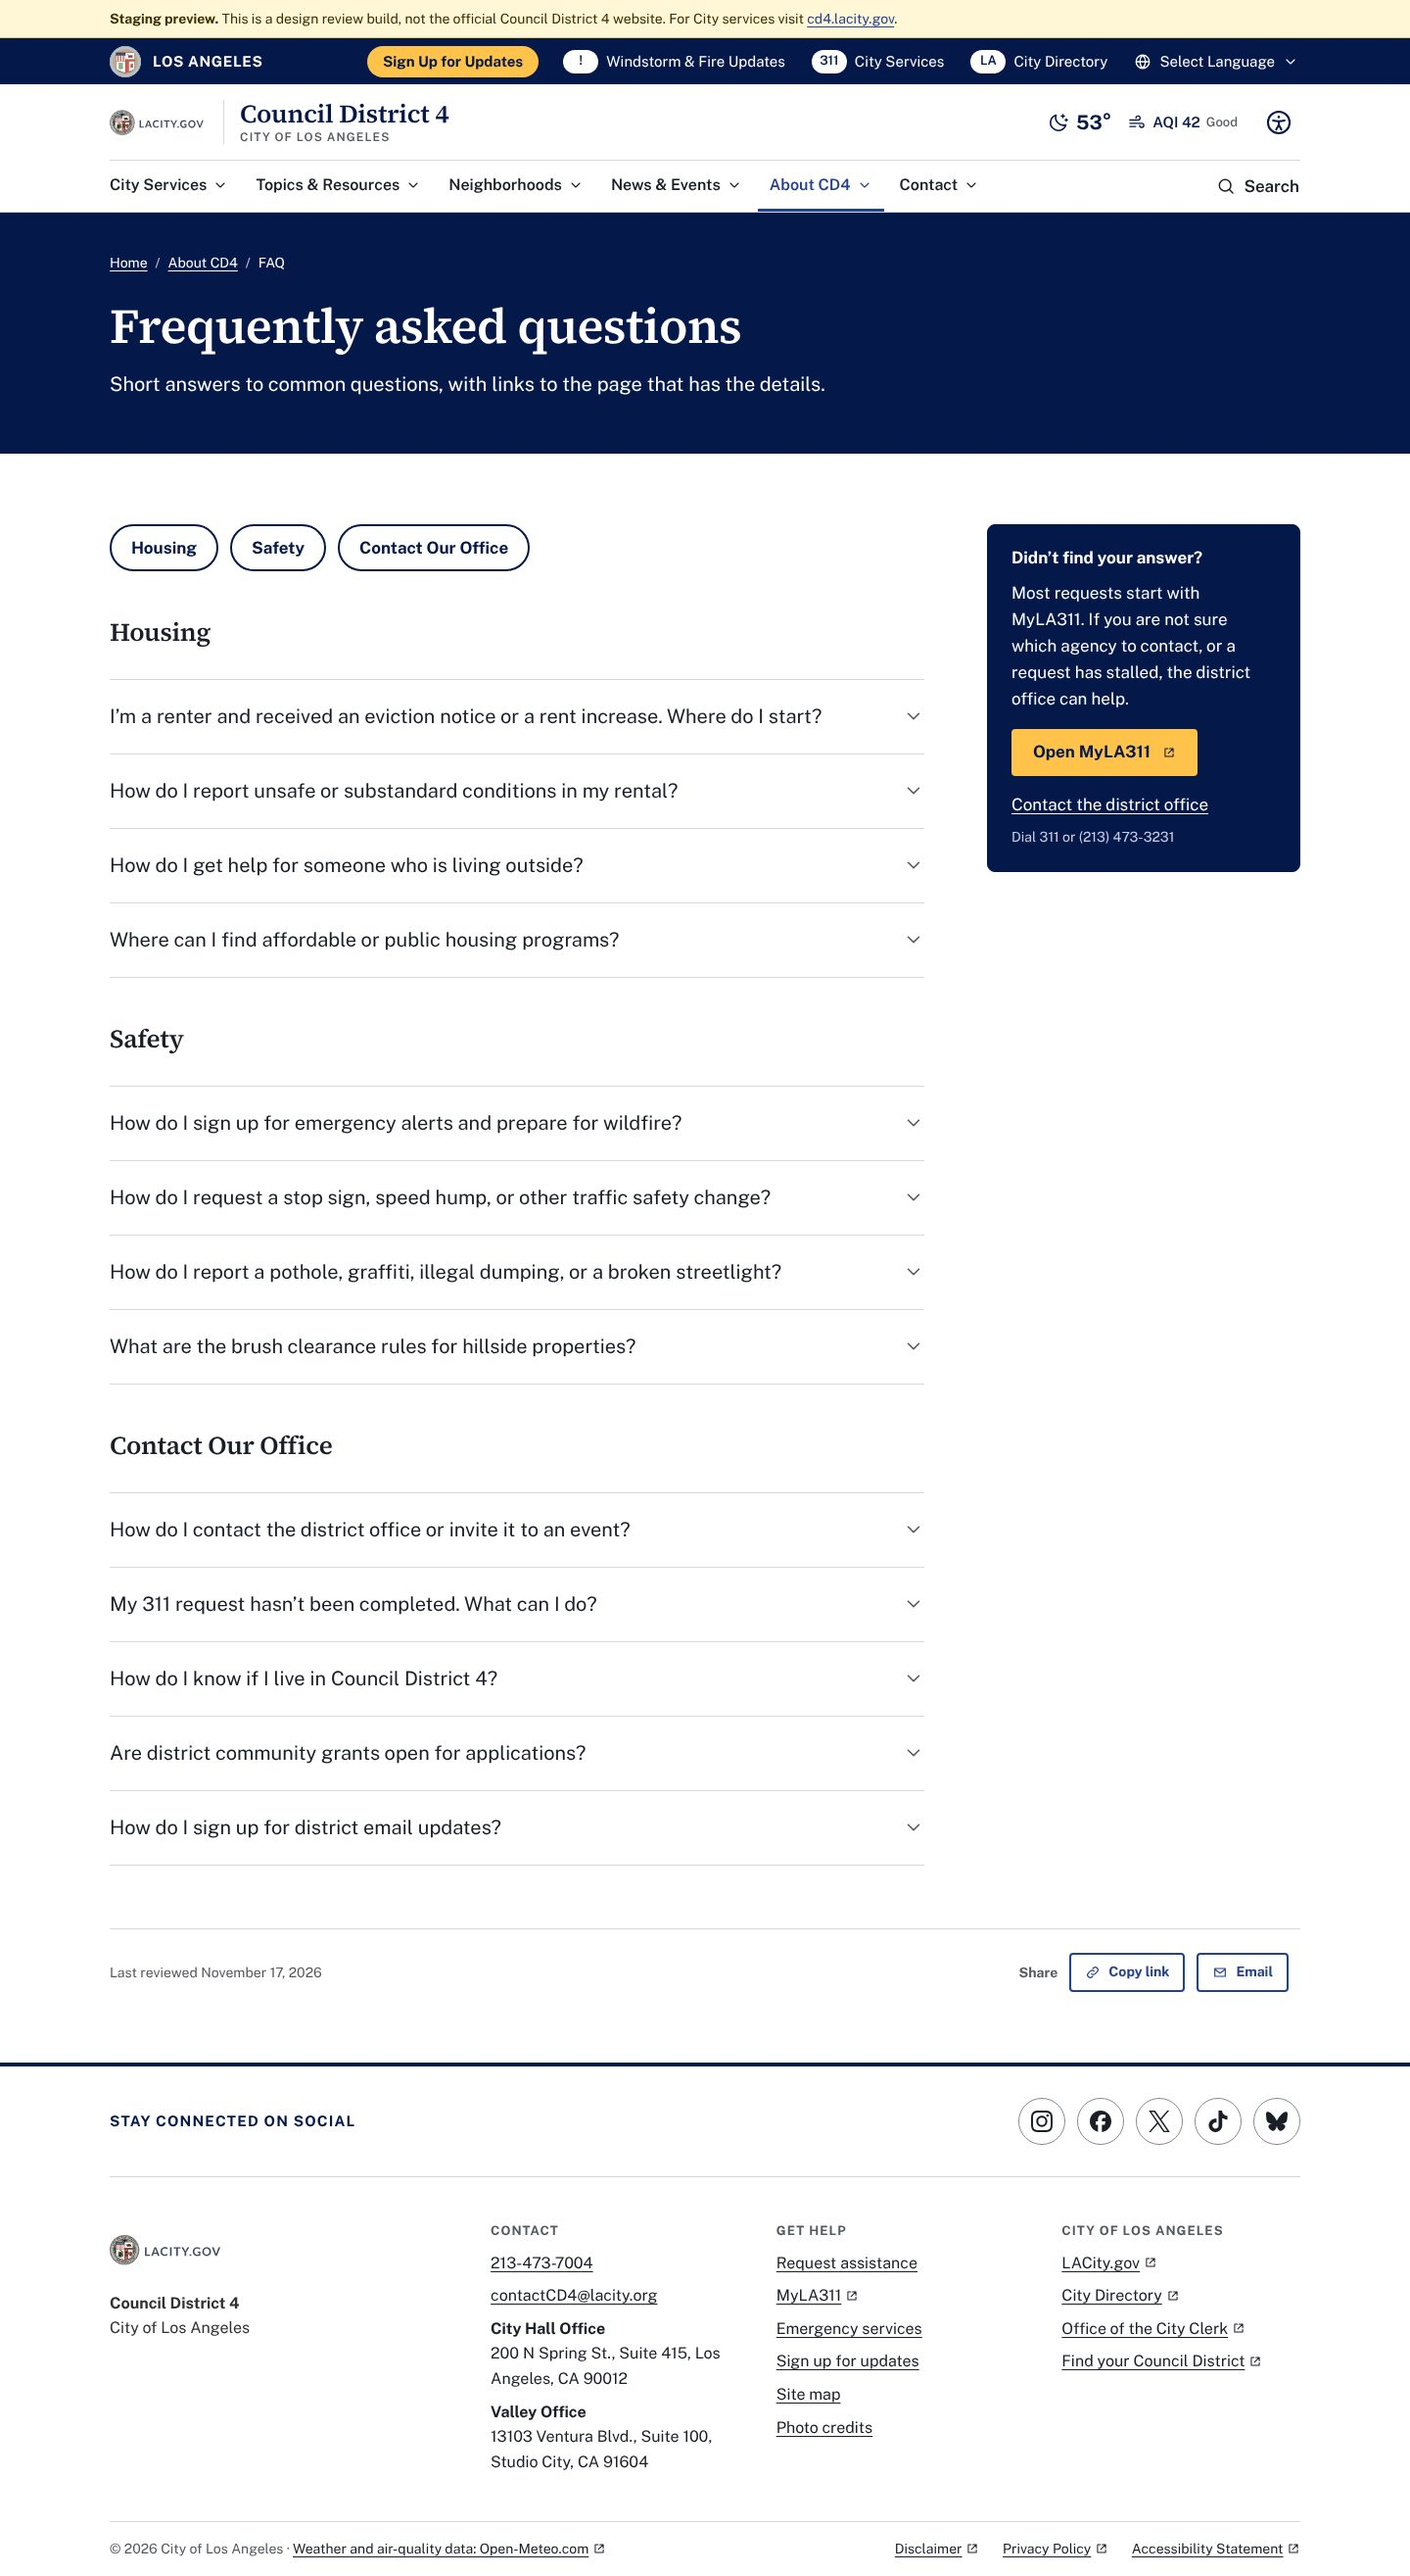
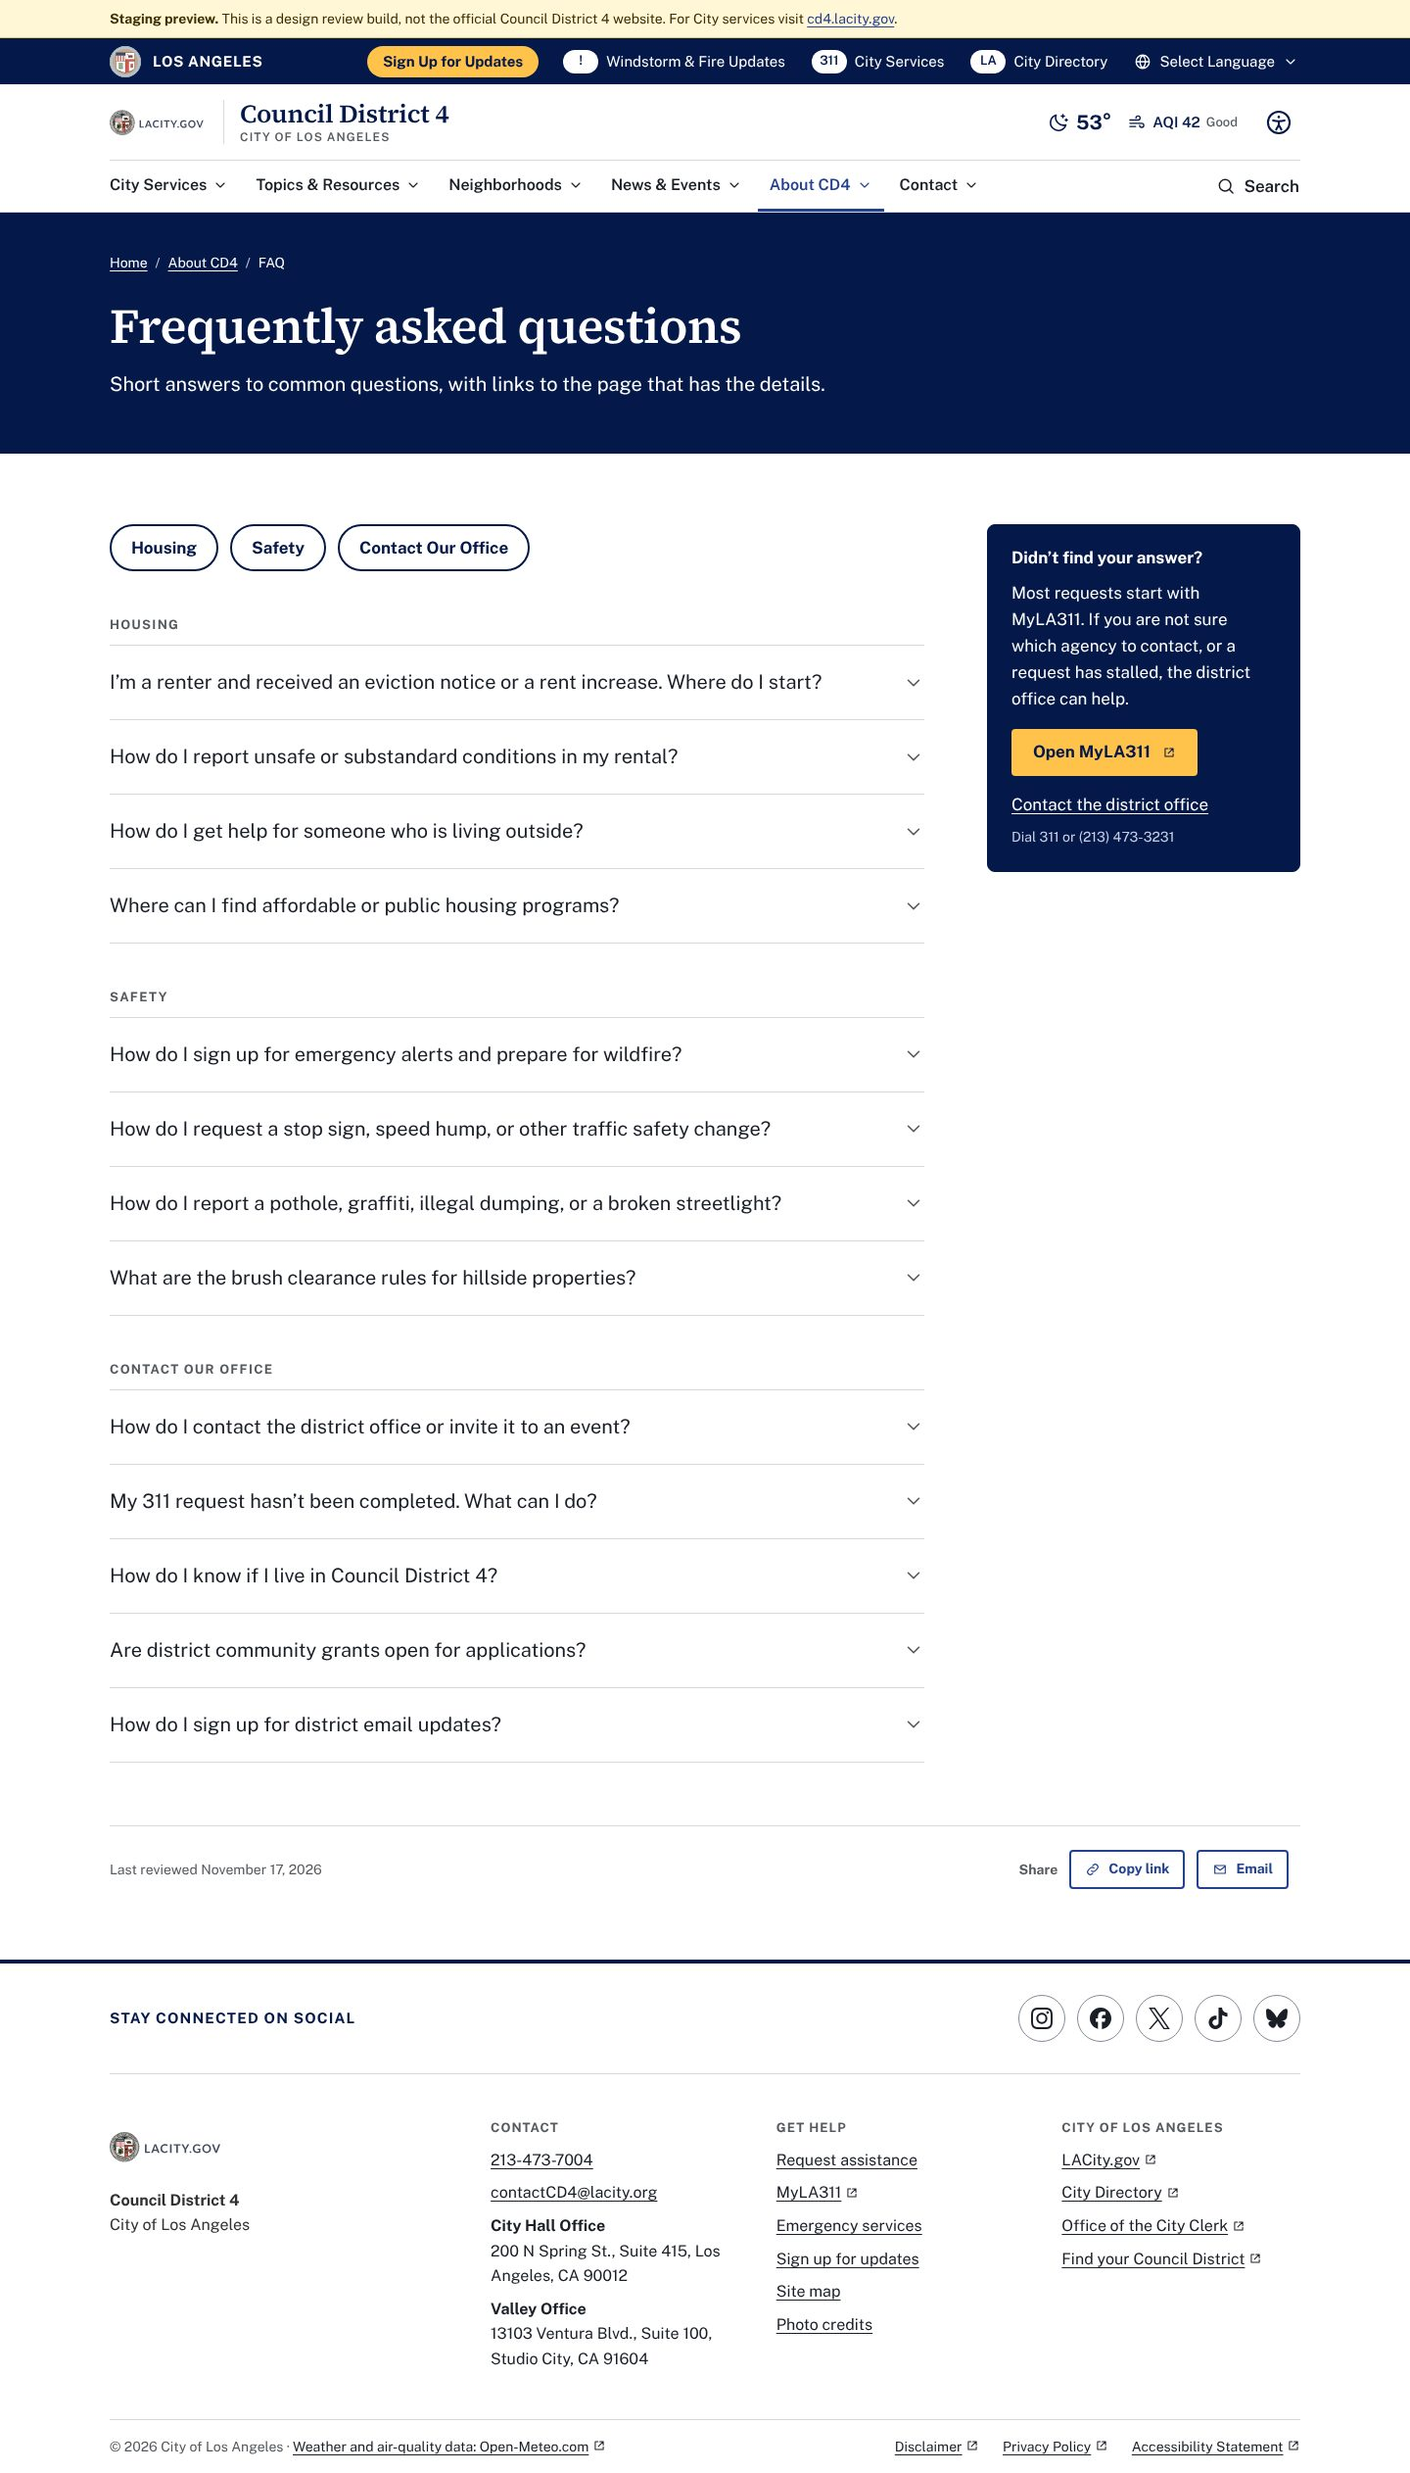
FAQ: centered single column with small uppercase category labels
Claude-Session: https://claude.ai/code/session_01YU6pJqnMBxtPTujsAPU4kF

diff --git a/app/page.tsx b/app/page.tsx
@@ -166,19 +166,14 @@ export default function HomePage() {
       </section>
 
       <section className="section" aria-labelledby="faq-title">
-        <div className="container">
-          <div className="latest-head">
-            <h2 id="faq-title">Frequently Asked Questions</h2>
-            <SmartLink className="arrow-link" href="/faq/">All questions <Icon name="arrow" size={16} /></SmartLink>
-          </div>
-          <div className="faq-cats">
-            {faqCategories.map((cat) => (
-              <section key={cat.id} aria-labelledby={`faq-${cat.id}`}>
-                <h3 id={`faq-${cat.id}`} className="faq-cats__title">{cat.title}</h3>
-                <FaqList items={cat.items.filter((f) => f.featured)} compact />
-              </section>
-            ))}
-          </div>
+        <div className="container faq-wrap">
+          <h2 id="faq-title">Frequently Asked Questions</h2>
+          {faqCategories.map((cat) => (
+            <section key={cat.id} className="faq-cat" aria-labelledby={`faq-${cat.id}`}>
+              <h3 id={`faq-${cat.id}`} className="section-label">{cat.title}</h3>
+              <FaqList items={cat.items.filter((f) => f.featured)} />
+            </section>
+          ))}
           <div className="btn-row" style={{ marginTop: "var(--s6)" }}>
             <ButtonLink href="/faq/" variant="secondary">Read more FAQs</ButtonLink>
           </div>

diff --git a/styles/components.css b/styles/components.css
@@ -215,12 +215,11 @@ a.city-bar__link, button.city-bar__link { display: inline-flex; align-items: cen
 .faq__answer { padding: 0 0 var(--s5); max-width: var(--measure); color: var(--ink-2); }
 .faq__answer ul { list-style: none; margin: var(--s3) 0 0; padding: 0; display: flex; flex-wrap: wrap; gap: var(--s2) var(--s5); }
 
-/* FAQ categories (home) and jump links (FAQ page) */
-.faq-cats { display: grid; gap: var(--s6) var(--s7); }
-@media (min-width: 62rem) { .faq-cats { grid-template-columns: repeat(3, minmax(0, 1fr)); } }
-.faq-cats__title { font-family: var(--font-serif); font-size: var(--step-2); font-weight: 600; }
-.faq--compact { margin-top: var(--s3); }
-.faq--compact summary { font-size: var(--step-0); font-weight: 600; padding: var(--s4) 0; }
+/* FAQ categories: small uppercase label (same style as "Quick Resource Links") above each group */
+.faq-wrap { margin-inline: auto; }
+.faq-cat { margin-top: var(--s7); }
+.faq-cat .section-label { margin-bottom: 0; }
+.faq-cat .faq { margin-top: var(--s3); }
 .faq-jump ul { display: flex; flex-wrap: wrap; gap: var(--s3); list-style: none; margin: 0; padding: 0; }
 
 /* ---------- Header tools: weather, search ---------- */

diff --git a/tests/site.spec.ts b/tests/site.spec.ts
@@ -320,7 +320,10 @@ test.describe("home page sections", () => {
   });
   test("FAQ: three categories on the home page, with a button to the full FAQ page in About", async ({ page }) => {
     await page.goto("/");
-    await expect(page.locator(".faq-cats__title")).toHaveText(["Housing", "Safety", "Contact Our Office"]);
+    await expect(page.locator(".faq-cat .section-label")).toHaveText(["Housing", "Safety", "Contact Our Office"]);
+    // Category labels use the same style as the "Quick Resource Links" label.
+    const style = (sel: string) => page.locator(sel).first().evaluate((e) => { const c = getComputedStyle(e); return [c.fontSize, c.fontWeight, c.textTransform, c.letterSpacing, c.color].join("|"); });
+    expect(await style(".faq-cat .section-label")).toBe(await style("#quick-title"));
     const first = page.locator(".faq__item").first();
     await expect(first.locator(".faq__answer")).toBeHidden();
     await first.locator("summary").click();

diff --git a/app/faq/page.tsx b/app/faq/page.tsx
@@ -19,8 +19,8 @@ export default function FaqPage() {
               </ul>
             </nav>
             {faqCategories.map((c) => (
-              <section key={c.id} id={c.id} aria-labelledby={`${c.id}-h`} style={{ marginTop: "var(--s7)", scrollMarginTop: "1rem" }}>
-                <h2 id={`${c.id}-h`} style={{ fontSize: "var(--step-2)" }}>{c.title}</h2>
+              <section key={c.id} id={c.id} className="faq-cat" aria-labelledby={`${c.id}-h`} style={{ scrollMarginTop: "1rem" }}>
+                <h2 id={`${c.id}-h`} className="section-label">{c.title}</h2>
                 <FaqList items={c.items} />
               </section>
             ))}

diff --git a/components/Faq.tsx b/components/Faq.tsx
@@ -3,9 +3,9 @@ import { Icon } from "./Icon";
 import { SmartLink } from "./SmartLink";
 
 /** FAQ accordion built on native <details>, so it works without JavaScript and with every input method. */
-export function FaqList({ items, compact }: { items: Faq[]; compact?: boolean }) {
+export function FaqList({ items }: { items: Faq[] }) {
   return (
-    <div className={`faq${compact ? " faq--compact" : ""}`}>
+    <div className="faq">
       {items.map((f) => (
         <details key={f.q} className="faq__item">
           <summary><span>{f.q}</span><Icon name="chevron" size={22} /></summary>

diff --git a/docs/design-system.md b/docs/design-system.md
@@ -78,7 +78,7 @@ Focus is always a 3px navy outline with a white halo (gold on dark surfaces). Fo
 | Topic buttons | Ten outlined pill buttons, icon + title, no descriptions. |
 | Neighborhood photo tiles | Photo, gradient, title and one short sentence; image zooms on hover/focus (not under reduced motion). The same photo is the header background of each neighborhood page. |
 | Community Updates | "Latest"-style list: rule, category, title, date. Four most recent on the home page. |
-| FAQ | Native `<details>` accordions. The home page shows two questions in each of three categories (Housing, Safety, Contact Our Office) with a "Read more FAQs" button; the full list is at `/faq/`, under About CD4. |
+| FAQ | Native `<details>` accordions. The home page shows one centered column with two questions under each of three category labels (Housing, Safety, Contact Our Office; same small uppercase label style as "Quick Resource Links") and a "Read more FAQs" button; the full list is at `/faq/`, under About CD4. |
 | Footer social row | Single-color brand glyphs (Simple Icons, CC0) with text names for assistive technology. |
 
 Colored top and left edge bars were removed from all tiles and cards. Topic color now appears only in icons, tints and page headers.
